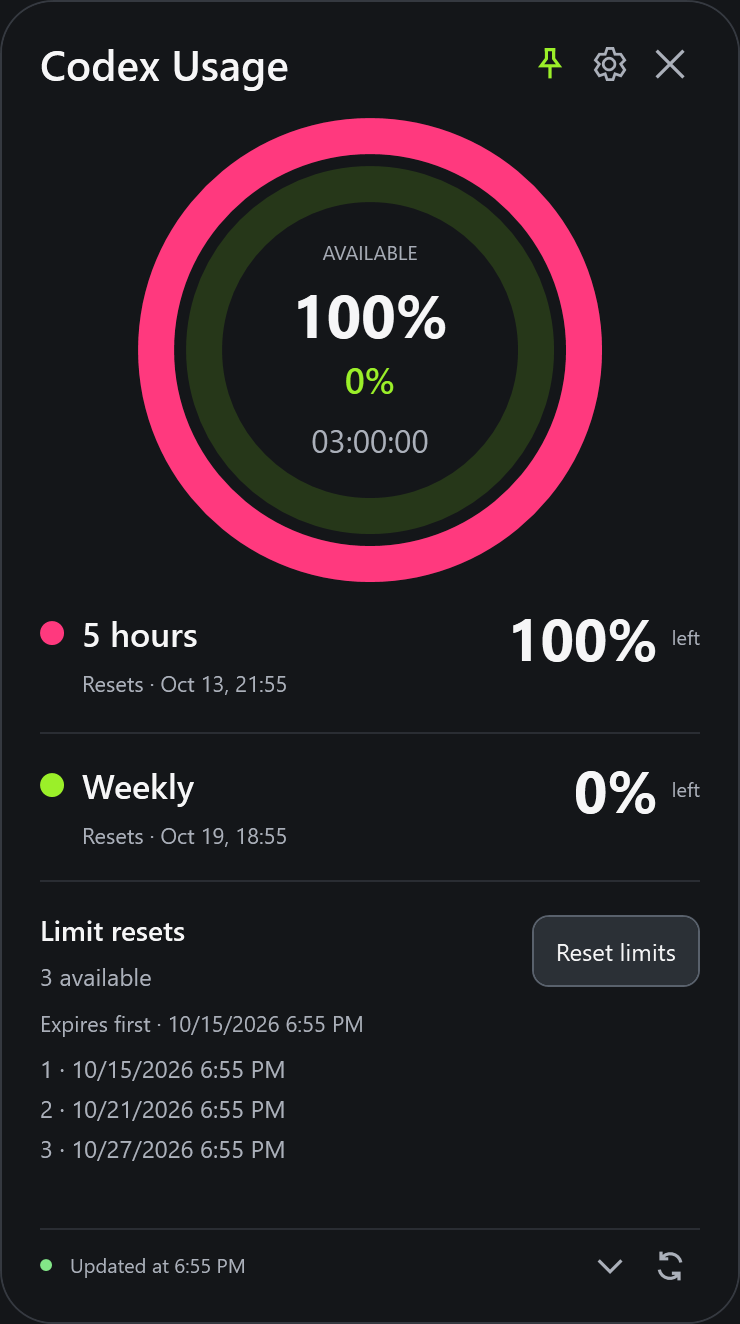
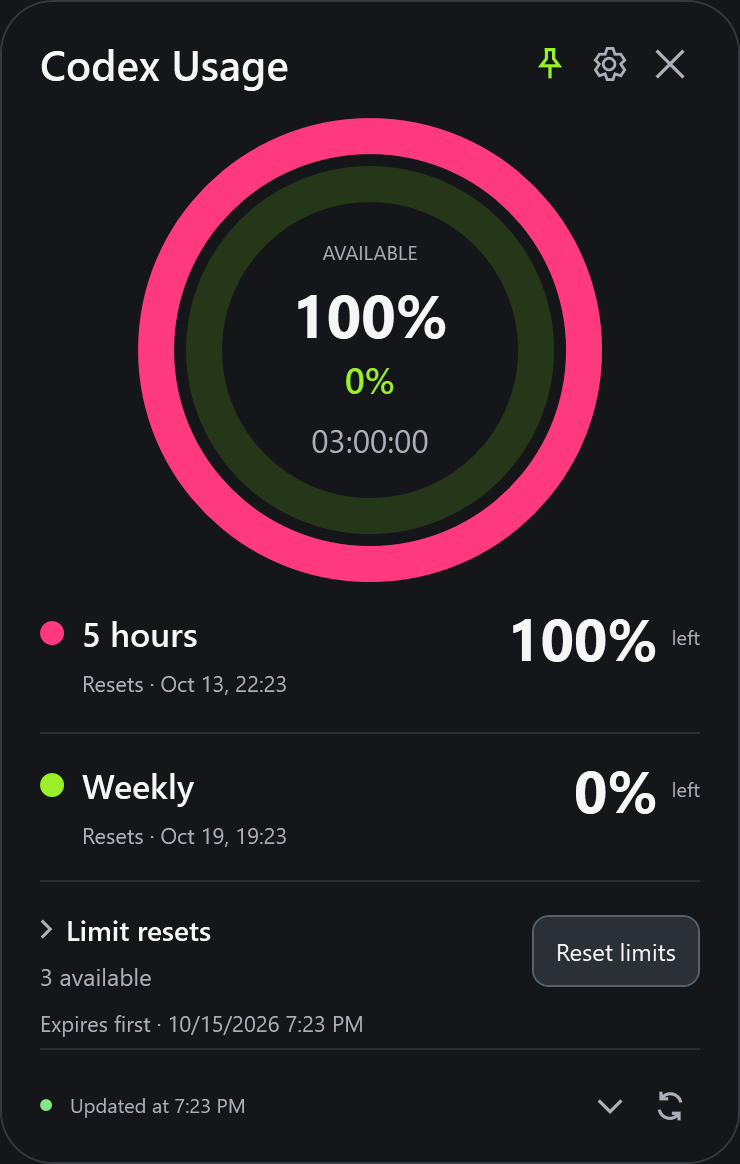
Collapse reset details and document app-server opportunities

diff --git a/src/CodexUsageWidget/MainWindow.xaml b/src/CodexUsageWidget/MainWindow.xaml
@@ -4,7 +4,7 @@
  xmlns:controls="clr-namespace:CodexUsageWidget.Controls"
  xmlns:loc="clr-namespace:CodexUsageWidget"
  xmlns:core="clr-namespace:CodexUsageWidget.Core;assembly=CodexUsageWidget.Core"
- Icon="Assets/app.ico" Title="Codex Usage Widget" Width="386" Height="678" WindowStyle="None" WindowStartupLocation="CenterScreen"
+ Icon="Assets/app.ico" Title="Codex Usage Widget" Width="386" Height="598" WindowStyle="None" WindowStartupLocation="CenterScreen"
  Language="{Binding CultureName, Source={x:Static core:Localization.Current}, ConverterCulture=en-US}"
  AllowsTransparency="True" Background="Transparent" ResizeMode="NoResize"
  ShowInTaskbar="False" Topmost="True" FontFamily="Segoe UI Variable, Segoe UI"
@@ -22,7 +22,7 @@
    <ScrollViewer x:Name="ExpandedScroll" VerticalScrollBarVisibility="Auto" HorizontalScrollBarVisibility="Disabled" Visibility="{Binding IsExpanded, Converter={StaticResource BoolVisibility}}">
    <Grid x:Name="ExpandedPanel" Margin="19,14,19,12">
     <Grid.RowDefinitions>
-     <RowDefinition Height="34"/><RowDefinition Height="244"/><RowDefinition Height="74"/><RowDefinition Height="74"/><RowDefinition Height="174"/><RowDefinition Height="32"/>
+     <RowDefinition Height="34"/><RowDefinition Height="244"/><RowDefinition Height="74"/><RowDefinition Height="74"/><RowDefinition x:Name="ResetSectionRow" Height="94"/><RowDefinition Height="32"/>
     </Grid.RowDefinitions>
     <Grid>
      <Grid.ColumnDefinitions><ColumnDefinition/><ColumnDefinition Width="90"/></Grid.ColumnDefinitions>
@@ -75,12 +75,26 @@
     </Grid>
     <Grid Grid.Row="4" Margin="0,11,0,0" ToolTip="{Binding ResetDetails}">
      <Grid.ColumnDefinitions><ColumnDefinition/><ColumnDefinition Width="Auto"/></Grid.ColumnDefinitions>
-     <Grid.RowDefinitions><RowDefinition Height="25"/><RowDefinition Height="22"/><RowDefinition Height="25"/><RowDefinition/><RowDefinition Height="1"/></Grid.RowDefinitions>
-     <TextBlock Text="{loc:Tr ResetsHeading}" FontSize="14" FontWeight="SemiBold" VerticalAlignment="Center"/>
+     <Grid.RowDefinitions><RowDefinition Height="25"/><RowDefinition Height="22"/><RowDefinition Height="25"/><RowDefinition x:Name="ResetListRow" Height="0"/><RowDefinition Height="1"/></Grid.RowDefinitions>
+     <ToggleButton x:Name="ResetDisclosure" Background="Transparent" BorderThickness="0" Foreground="{StaticResource Text}" HorizontalContentAlignment="Left" Click="ResetDisclosure_Click" AutomationProperties.Name="{loc:Tr ResetsHeading}">
+      <ToggleButton.Template><ControlTemplate TargetType="ToggleButton">
+       <Border x:Name="DisclosureSurface" Background="Transparent" CornerRadius="7" Padding="0,0,6,0">
+        <StackPanel Orientation="Horizontal" VerticalAlignment="Center">
+         <Path x:Name="DisclosureArrow" Data="M 1,1 L 5,5 L 1,9" Stroke="{StaticResource Muted}" StrokeThickness="1.5" Width="6" Height="10" Stretch="Uniform" Margin="0,0,7,0" RenderTransformOrigin="0.5,0.5"/>
+         <ContentPresenter/>
+        </StackPanel>
+       </Border>
+       <ControlTemplate.Triggers>
+        <Trigger Property="IsChecked" Value="True"><Setter TargetName="DisclosureArrow" Property="RenderTransform"><Setter.Value><RotateTransform Angle="90"/></Setter.Value></Setter></Trigger>
+        <Trigger Property="IsMouseOver" Value="True"><Setter TargetName="DisclosureSurface" Property="Background" Value="#282B31"/></Trigger>
+       </ControlTemplate.Triggers>
+      </ControlTemplate></ToggleButton.Template>
+      <TextBlock Text="{loc:Tr ResetsHeading}" FontSize="14" FontWeight="SemiBold"/>
+     </ToggleButton>
      <Button Grid.Column="1" Grid.RowSpan="2" x:Name="ResetButton" Content="{Binding ResetButtonText}" IsEnabled="{Binding CanReset}" Style="{StaticResource ActionButton}" FontSize="12" Padding="11,0" VerticalAlignment="Center" Click="Reset_Click" AutomationProperties.Name="{loc:Tr ResetAction}"/>
      <TextBlock Grid.Row="1" Text="{Binding ResetAvailability}" Foreground="{StaticResource Muted}" FontSize="12" VerticalAlignment="Center" Margin="0,0,8,0" TextTrimming="CharacterEllipsis"/>
      <TextBlock Grid.Row="2" Grid.ColumnSpan="2" Text="{Binding ResetExpiry}" FontSize="11" Foreground="{StaticResource Muted}" TextTrimming="CharacterEllipsis" ToolTip="{Binding ResetDetails}" VerticalAlignment="Center"/>
-     <ScrollViewer Grid.Row="3" Grid.ColumnSpan="2" VerticalScrollBarVisibility="Auto" HorizontalScrollBarVisibility="Disabled" Margin="0,0,0,5">
+     <ScrollViewer x:Name="ResetDetailsPanel" Grid.Row="3" Grid.ColumnSpan="2" Height="82" Visibility="{Binding IsChecked, ElementName=ResetDisclosure, Converter={StaticResource BoolVisibility}}" VerticalScrollBarVisibility="Auto" HorizontalScrollBarVisibility="Disabled" Margin="0,0,0,5">
       <ItemsControl x:Name="ResetEntriesList" ItemsSource="{Binding ResetEntries}"><ItemsControl.ItemTemplate><DataTemplate><TextBlock Text="{Binding}" FontSize="12" Foreground="{StaticResource Muted}" Margin="0,2,0,2" TextWrapping="Wrap"/></DataTemplate></ItemsControl.ItemTemplate></ItemsControl>
      </ScrollViewer>
      <Border Grid.Row="4" Grid.ColumnSpan="2" Background="#2A2D33"/>

diff --git a/src/CodexUsageWidget/MainWindow.xaml.cs b/src/CodexUsageWidget/MainWindow.xaml.cs
@@ -139,7 +139,10 @@ public partial class MainWindow : Window
     private void ApplyLayout()
     {
         Width = _viewModel.IsCompact ? 128 : 386;
-        Height = _viewModel.IsCompact ? 128 : 678;
+        var showResets = ResetDisclosure.IsChecked == true;
+        ResetSectionRow.Height = new GridLength(showResets ? 181 : 94);
+        ResetListRow.Height = new GridLength(showResets ? 87 : 0);
+        Height = _viewModel.IsCompact ? 128 : showResets ? 685 : 598;
         Surface.CornerRadius = new CornerRadius(_viewModel.IsCompact ? 22 : 26);
     }
 
@@ -148,6 +151,17 @@ public partial class MainWindow : Window
         var screen = WindowPlacement.ScreenFor(this);
         _viewModel.IsCompact = !_viewModel.IsCompact;
         _settings.Compact = _viewModel.IsCompact;
+        ApplyLayout();
+        Dispatcher.BeginInvoke(DispatcherPriority.Loaded, () =>
+        {
+            WindowPlacement.KeepInside(this, screen);
+            SaveSettings();
+        });
+    }
+
+    private void ResetDisclosure_Click(object sender, RoutedEventArgs e)
+    {
+        var screen = WindowPlacement.ScreenFor(this);
         ApplyLayout();
         Dispatcher.BeginInvoke(DispatcherPriority.Loaded, () =>
         {
@@ -408,6 +422,19 @@ public partial class MainWindow : Window
         if (!_viewModel.CanReset || !_viewModel.ResetAvailability.Contains("3", StringComparison.Ordinal))
             throw new InvalidOperationException("Available reset state verification failed.");
         Capture(Surface, Path.Combine(directory, "main.png"));
+        if (ResetDetailsPanel.IsVisible) throw new InvalidOperationException("Reset details must start collapsed.");
+        var collapsedHeight = Height;
+        ResetDisclosure.IsChecked = true;
+        ResetDisclosure_Click(this, new RoutedEventArgs());
+        await Task.Delay(150);
+        if (!ResetDetailsPanel.IsVisible || ResetEntriesList.ActualHeight < 1)
+            throw new InvalidOperationException("Reset disclosure must reveal details and grow the window.");
+        Capture(Surface, Path.Combine(directory, "resets-expanded.png"));
+        ResetDisclosure.IsChecked = false;
+        ResetDisclosure_Click(this, new RoutedEventArgs());
+        await Task.Delay(100);
+        if (ResetDetailsPanel.IsVisible || Height != collapsedHeight)
+            throw new InvalidOperationException("Closing reset details must recover the space.");
         if (_viewModel.ResetEntries.Count != 3 || ResetEntriesList.Items.Count != 3)
             throw new InvalidOperationException("Every returned reset must be listed.");
         _viewModel.IsCompact = true;

diff --git a/DESIGN.md b/DESIGN.md
@@ -135,7 +135,7 @@ The remaining-value role is the frontmatter's percentage token. The full ring ce
 
 ## Layout
 
-Main window: 386 × 678 device-independent pixels, including transparent margins. Header, 232-pixel ring assembly, two quota rows, earned-reset section, then the status/control footer. The expanded grid allocates 34, 244, 74, 74, 174 and 32 pixels to those rows; its inset is 19 horizontally, 14 above and 12 below within the eight-pixel outer margin. Full rows include remaining percentage and reset date. Compact window: 128 × 128 pixels with concentric 92- and 70-pixel rings and the live five-hour countdown; no percentages, status text or inline buttons. Hover reveals quota values, local reset dates, earned resets and status. Double-click anywhere on the compact surface (or the expanded ring area), press Ctrl+M or use the tray mode action to expand; drag the surface to reposition.
+Main window: 386 × 598 (685 with reset details open) device-independent pixels, including transparent margins. Header, 232-pixel ring assembly, two quota rows, earned-reset section, then the status/control footer. The expanded grid allocates 34, 244, 74, 74, 94 (181 expanded) and 32 pixels to those rows; its inset is 19 horizontally, 14 above and 12 below within the eight-pixel outer margin. Full rows include remaining percentage and reset date. Compact window: 128 × 128 pixels with concentric 92- and 70-pixel rings and the live five-hour countdown; no percentages, status text or inline buttons. Hover reveals quota values, local reset dates, earned resets and status. Double-click anywhere on the compact surface (or the expanded ring area), press Ctrl+M or use the tray mode action to expand; drag the surface to reposition.
 
 The full and compact layouts are separate compositions, not a scaled screenshot. WPF vector rendering handles display scaling. Settings use the shared frameless dark rounded dialog shell (510 × 570), with an eight-pixel transparent outer margin, one-pixel outline and 23-pixel content inset. The language selector is 32 pixels high; the refresh selector remains 30 pixels high. Earned-reset confirmation is a 470-pixel-wide owner-centered dialog that sizes its height to wrapped content, with the same shell and inset. Both dialogs declare WindowStartupLocation="CenterOwner" in XAML; their headers are draggable and their close controls cancel. The duplicate-launch notice shares this shell and centers on screen when no owner exists. Tab traversal is disabled by user request; explicit shortcuts and mouse controls remain and give icon controls accessible names. These are explicit desktop modes; there are no web breakpoints.
 
@@ -208,3 +208,5 @@ An uncertain outcome changes the action to Retry reset and explains that the ear
 - Don't add an Apple logo, watch hardware frame, extra activity ring or decorative metrics.
 
 The reset section lists every returned available credit by local expiry date/time in a scrollable list; missing details are stated explicitly. The main content also scrolls on small monitors. Native physical bounds clamp the main widget after expansion/drag. The countdown stops while hidden/minimized and resumes immediately on showing; visible compact mode keeps counting.
+
+The reset list is collapsed by default behind a shared dark disclosure toggle. Availability, nearest expiry and reset action stay visible. The list has an 82 DIP scroll viewport with 5 DIP bottom spacing; disclosure changes the full-window height from 598 to 685 DIP and clamps it to the current monitor. Header hover is tonal gray with a rotated stroked chevron.

diff --git a/docs/api-opportunities.md b/docs/api-opportunities.md
@@ -1,0 +1,16 @@
+# App-server data opportunities
+
+Reviewed on 2026-10-13 using [official OpenAI app-server documentation](https://learn.chatgpt.com/docs/app-server) and the non-experimental schema output generated by installed `codex-cli 0.154.0` (`codex app-server generate-json-schema`). This is a capability review, not a claim that every metric is populated for the signed-in account. No new account RPCs or model turns were made for this research.
+
+| Data surface | Fields present in the local schema | Reasonable widget addition |
+| --- | --- | --- |
+| `account/usage/read` | `dailyUsageBuckets` with date/tokens; summary lifetime/peak daily tokens, streaks and longest turn | Optional statistics panel: today's reported usage and a 7/30-day chart. Refresh on opening or infrequently, independently of the second-by-second countdown. |
+| `account/rateLimits/read` | Multiple named buckets, credits balance/hasCredits/unlimited, reached-limit classification, plan type; backend usage permission and spend-control metadata | Optional credits balance, extra returned quota buckets and an explicit blocked/available state. Never infer server permission merely from a local countdown reaching zero. |
+| `account/read` | Account/auth state and plan type | Account/plan status in Settings, fetched on opening and updated by account notifications. Avoid exposing email on the always-visible widget by default. |
+| Earned-reset credit details | Granted/expiry timestamps, nullable title and description | Better reset labels and optional reminders before expiry. Never invent missing records when the backend caps the detail list. |
+| `account/workspaceMessages/read` | Feature-enabled flag and timestamped headline messages | Optional workspace notices; useful primarily for team accounts, secondary for a personal quota widget. |
+| Thread usage | Token totals, cached input, output/reasoning usage and context window notifications; optional per-thread estimated credits/USD in account usage | Advanced per-chat detail only after selecting a thread. Estimates must be labelled. A separate app-server connection is not guaranteed to stream every other Codex client's active thread. |
+
+Recommended next scope: configurable low-quota/reset-expiry notifications; an on-demand usage statistics panel; credits balance when returned. Threshold notifications reuse already polled quota/reset metadata and require no new endpoint. Keep streaks, longest turns and conversation dashboards out of the default ring view.
+
+Null/absent fields mean unavailable. Account-wide usage statistics do not establish an exact remaining-token allowance. Subscription quota percentages, consumed-token history and purchased-credit balance are separate measures. Daily statistics and estimated cost must not be presented as final billing or as a guaranteed quota conversion.

diff --git a/README.md b/README.md
@@ -16,7 +16,7 @@ A small Windows desktop companion that keeps your Codex subscription limits visi
 - Shared rounded dark Settings and reset confirmation windows, using native XAML CenterOwner placement.
 - A two-ring application icon, supplied in multiple resolutions for Windows and the tray.
 - Monitor-aware window bounds, larger compact rings and a countdown that pauses while hidden in the tray.
-- A scrollable list of all returned earned-reset expiry dates and times.
+- A collapsible list of all returned earned-reset expiry dates and times; click the Limit resets heading to reveal it.
 - Remembers window position, layout, CLI path and refresh interval.
 - Optional start with Windows, enabled only when you check it in Settings.
 - Retains the last successful snapshot during an outage and marks it as stale.

diff --git a/CHANGELOG.md b/CHANGELOG.md
@@ -1,5 +1,12 @@
 # Changelog
 
+## 0.5.1 — 2026-10-13 (local build)
+
+- Earned-reset dates are collapsed by default behind a styled disclosure heading. Availability, nearest expiry and the reset action remain visible.
+- Opening/closing the list adjusts the full window height and keeps it within its current monitor. Compact mode is unchanged.
+- English native preview checks the collapsed default, disclosure expansion and recovered space.
+- Documented available app-server data and prioritized possible widget extensions; no additional account queries are enabled.
+
 ## 0.5.0 — 2026-10-13 (local build)
 
 - Larger compact rings (92/70 DIP) in a 128 × 128 tile, with a 13 DIP countdown; full rings grow to 232/184 DIP.

diff --git a/docs/releases/v0.5.1.md b/docs/releases/v0.5.1.md
@@ -1,0 +1,5 @@
+# Codex Usage Widget v0.5.1 (local build)
+
+The earned-reset section keeps its dates collapsed by default. Click the heading to show all returned expiry dates in the scrollable list. Availability, nearest expiry and the reset action stay visible. The window expands only while the list is open and remains inside the selected monitor.
+
+Both Portable and Lite are built locally. No GitHub publication is performed without an explicit command.
